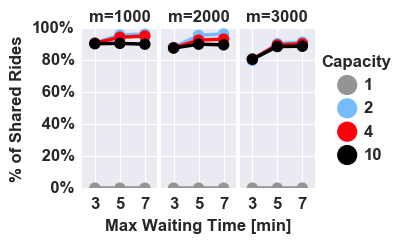
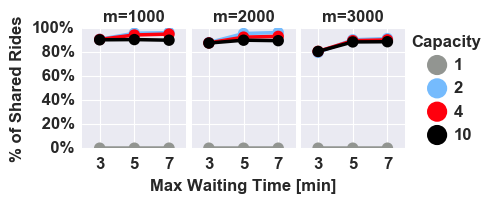
Adding 1.3 times the width

diff --git a/scripts/plot_metrics.py b/scripts/plot_metrics.py
@@ -327,7 +327,7 @@ def make_avg_plots(big_d, plot_type):
         min_val = None
         axes = list()
         fig = plt.figure()
-        fig.set_size_inches(3, 2)
+        fig.set_size_inches(1.3 * 3.2, 1.5)
         for i, v in enumerate(iover, start=1):
             plt.subplot(1, len(iover), i)
             plt.subplots_adjust(wspace=0.05)
